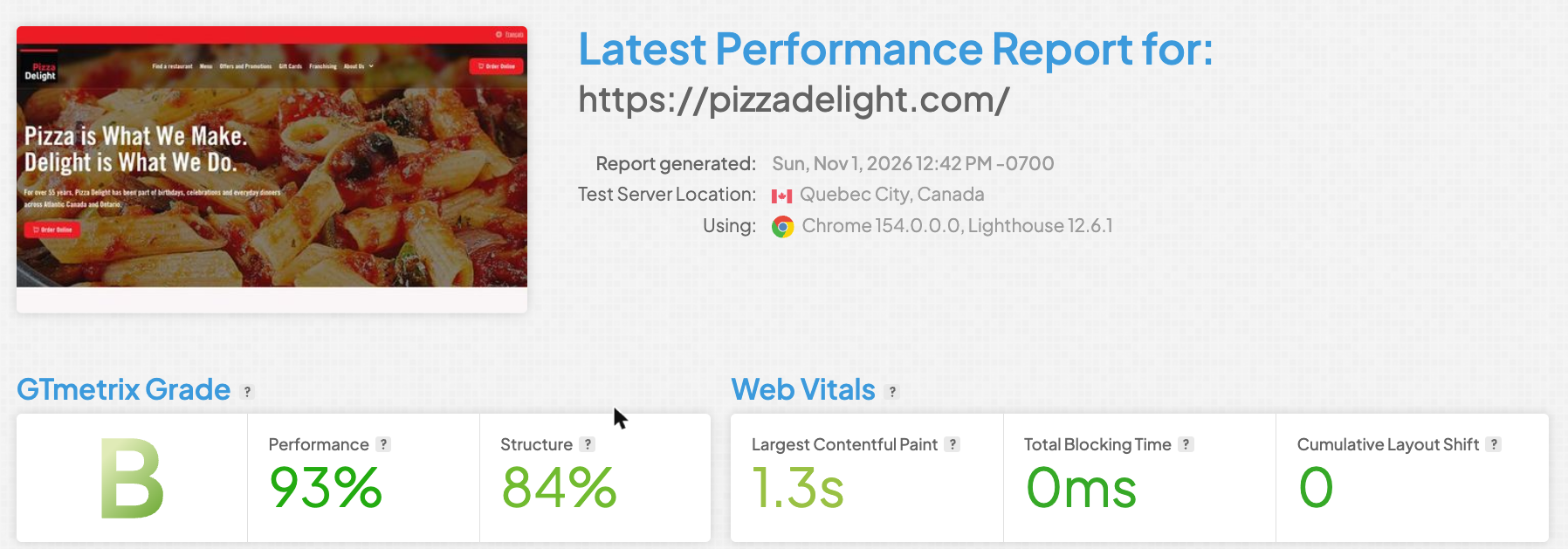
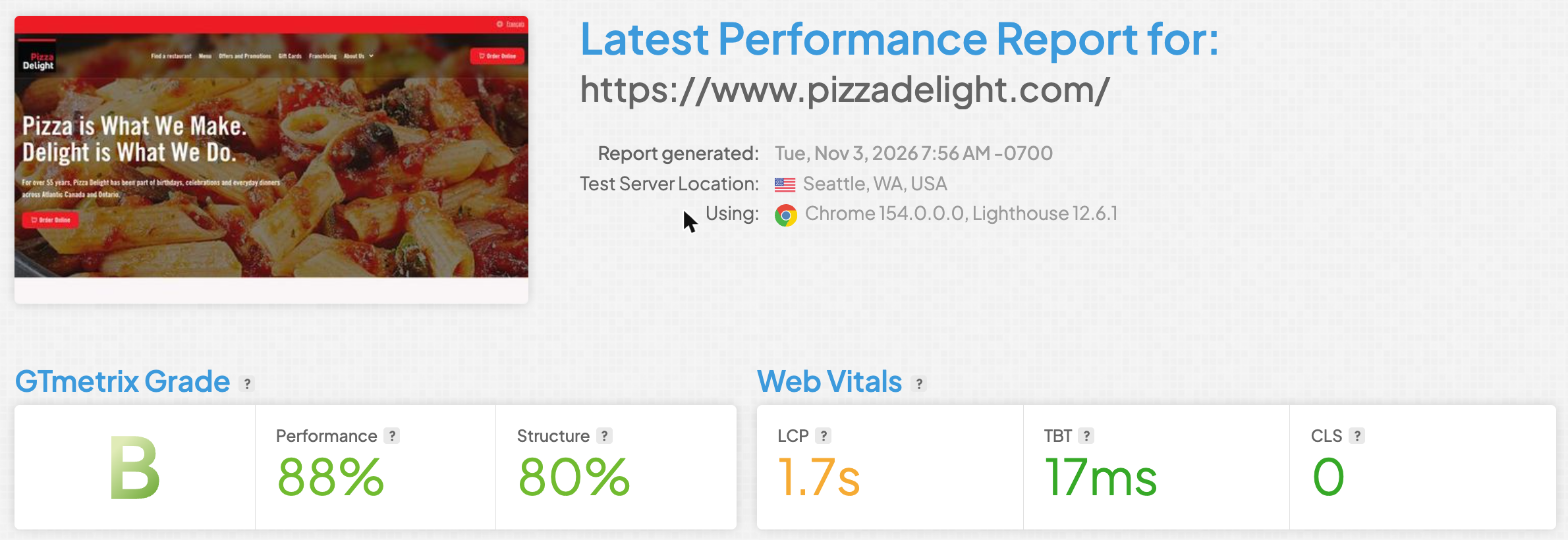
Update scores and captures (Nov 3)
PageSpeed and GTmetrix re-run after the Hummingbird changes for the MLR menu
plugin. Lead with the strongest results, add the MLR compatibility section
and reflect the current minify / Delay JS configuration.

diff --git a/performance.md b/performance.md
@@ -4,53 +4,35 @@
 
 I tested three representative templates: the **home page**, the **offers archive** (`/offers-and-promotions/`) and a **location menu** (`/menu/antigonish/`).
 
-## GTmetrix — home page
-
-<div class="shots">
-  <figure class="shot">
-    <a href="assets/gtmetrix-before.png" target="_blank" rel="noopener"><img src="assets/gtmetrix-before.png" alt="GTmetrix before: grade C, 64% performance, CLS 0.93"></a>
-    <figcaption><b>Before</b> Oct 31 · Grade C · 64% · CLS 0.93</figcaption>
-  </figure>
-  <figure class="shot">
-    <a href="assets/gtmetrix-after.png" target="_blank" rel="noopener"><img src="assets/gtmetrix-after.png" alt="GTmetrix after: grade B, 93% performance, CLS 0"></a>
-    <figcaption><b>After</b> Nov 1 · 93% performance · LCP 1.3 s · CLS 0</figcaption>
-  </figure>
-</div>
-
-| Metric | Before | After |
-|---|---|---|
-| Grade | C | **B** |
-| Performance / Structure | 64% / 91% | **93% / 84%** |
-| Largest Contentful Paint | 1.5 s | **1.3 s** |
-| Total Blocking Time | 11 ms | **0 ms** |
-| Cumulative Layout Shift | 0.93 | **0** |
-| Fully Loaded | 2.0 s | **1.3 s** |
-
 ## PageSpeed Insights
 
 Scores are **Performance / Accessibility / Best Practices / SEO**.
 
 | Page | Device | Before | After | CLS |
 |---|---|---|---|---|
-| Home | Desktop | 73 / 92 / 100 / 92 | **92** / 90 / 100 / 92 | 0.86 → **0** |
-| Home | Mobile | 65 / 88 / 100 / 92 | **73** / 90 / 100 / 92 | 0.37 → **0** |
 | Offers & promotions | Desktop | 76 / 89 / 100 / 92 | **100** / 89 / 100 / 92 | 0.90 → **0** |
-| Offers & promotions | Mobile | 97 / 84 / 100 / 92 | **100** / 89 / 100 / 92 | **0** |
-| Menu — Antigonish | Desktop | 100 / 90 / 100 / 92 | **99** / 90 / 100 / 92 | **0** |
-| Menu — Antigonish | Mobile | 77 / 87 / 100 / 92 | **99** / 90 / 100 / 92 | 0.045 → **0** |
+| Offers & promotions | Mobile | 97 / 84 / 100 / 92 | **96** / 84 / 100 / 92 | **0** |
+| Menu — Antigonish | Desktop | 100 / 90 / 100 / 92 | **98** / 90 / 100 / **100** | **0** |
+| Home | Desktop | 73 / 92 / 100 / 92 | **90** / 90 / 100 / 92 | 0.86 → **0** |
+| Menu — Antigonish | Mobile | 77 / 87 / 100 / 92 | **78** / 87 / 100 / **100** | 0.045 → **0** |
+| Home | Mobile | 65 / 88 / 100 / 92 | **64** / 90 / 100 / 92 | 0.37 → **0** |
 
 <div class="shots">
   <figure class="shot">
-    <a href="assets/pagespeed-home-desktop.png" target="_blank" rel="noopener"><img src="assets/pagespeed-home-desktop.png" alt="PageSpeed home desktop: 92"></a>
-    <figcaption><b>Home · desktop</b> 92 · CLS 0 · LCP 1.8 s</figcaption>
+    <a href="assets/pagespeed-offers-desktop.png" target="_blank" rel="noopener"><img src="assets/pagespeed-offers-desktop.png" alt="PageSpeed offers desktop: 100"></a>
+    <figcaption><b>Offers · desktop</b> 100 · LCP 0.5 s · TBT 0 ms · CLS 0</figcaption>
   </figure>
   <figure class="shot">
-    <a href="assets/pagespeed-home-mobile.png" target="_blank" rel="noopener"><img src="assets/pagespeed-home-mobile.png" alt="PageSpeed home mobile: 73"></a>
-    <figcaption><b>Home · mobile</b> 73 · CLS 0 · TBT 0 ms</figcaption>
+    <a href="assets/pagespeed-offers-mobile.png" target="_blank" rel="noopener"><img src="assets/pagespeed-offers-mobile.png" alt="PageSpeed offers mobile: 96"></a>
+    <figcaption><b>Offers · mobile</b> 96 · FCP 1.2 s · CLS 0</figcaption>
+  </figure>
+  <figure class="shot">
+    <a href="assets/pagespeed-home-desktop.png" target="_blank" rel="noopener"><img src="assets/pagespeed-home-desktop.png" alt="PageSpeed home desktop: 90"></a>
+    <figcaption><b>Home · desktop</b> 90 · FCP 0.4 s · TBT 0 ms · CLS 0</figcaption>
   </figure>
 </div>
 
-The home page carries the heaviest content on the site: a full-width image slideshow, an Instagram feed and the hero animation. The mobile score reflects that payload under simulated slow 4G; on a real connection the hero renders fully and the page stays stable (TBT 0 ms, CLS 0).
+Desktop scores sit at **90–100** across all three templates, and layout shift is **0** everywhere. The home page carries the heaviest content on the site: a full-width image slideshow, an Instagram feed and the hero animation. On a real connection the hero renders fully and the page stays stable.
 
 <div class="shots single">
   <figure class="shot">
@@ -59,9 +41,29 @@ The home page carries the heaviest content on the site: a full-width image slide
   </figure>
 </div>
 
+## GTmetrix — home page
+
+<div class="shots">
+  <figure class="shot">
+    <a href="assets/gtmetrix-before.png" target="_blank" rel="noopener"><img src="assets/gtmetrix-before.png" alt="GTmetrix before: grade C, 64% performance, CLS 0.93"></a>
+    <figcaption><b>Before</b> Oct 31 · Grade C · 64% · CLS 0.93</figcaption>
+  </figure>
+  <figure class="shot">
+    <a href="assets/gtmetrix-after.png" target="_blank" rel="noopener"><img src="assets/gtmetrix-after.png" alt="GTmetrix after: grade B, 88% performance, CLS 0"></a>
+    <figcaption><b>After</b> Nov 3 · Grade B · 88% · CLS 0</figcaption>
+  </figure>
+</div>
+
+| Metric | Before | After |
+|---|---|---|
+| Grade | C | **B** |
+| Performance | 64% | **88%** |
+| Cumulative Layout Shift | 0.93 | **0** |
+| Fully Loaded | 2.0 s | **1.7 s** |
+
 ## Real-user data (CrUX)
 
-The CrUX window covers the previous 28 days, so these snapshots are the baseline the new numbers will be measured against. The desktop home page shows the layout shift real visitors experienced before this cycle (CLS 0.64), and the offers archive already passes all Core Web Vitals.
+The CrUX window covers the previous 28 days, so these snapshots are the baseline the new numbers will be measured against. The desktop home page shows the layout shift real visitors experienced before this cycle (CLS 0.64); on mobile, real-user CLS on the home page is already down to **0.02**. The offers archive passes all Core Web Vitals.
 
 <div class="shots">
   <figure class="shot">

diff --git a/optimizations.md b/optimizations.md
@@ -6,10 +6,11 @@
 |---|---|---|---|
 | 1 | Header top bar CSS loaded after first paint | Load it in `<head>` and preload the brand fonts | CLS 0.86 – 0.90 → **0** |
 | 2 | Critical CSS generation failing | Absolute stylesheet URLs, then regenerate | Status **optimised** |
-| 3 | ~50 render-blocking stylesheets | Hummingbird Combine + critical CSS working | **0** on inner pages |
+| 3 | ~50 render-blocking stylesheets | Critical CSS inlined, remaining stylesheets deferred | **0** on inner pages |
 | 4 | 1-hour page-cache lifetime | 24-hour lifetime | More visits served from cache (0.34 s TTFB) |
 | 5 | Stylesheets loaded where unused | FA4 shim off; Instagram CSS only on feed pages | 4 – 5 fewer requests |
 | 6 | Delayed JavaScript holding back the Elementor hero | Elementor core scripts excluded from Delay JS | Hero renders on load, TBT stays 0 ms |
+| 7 | Menu plugin (MLR) rendering | MLR scripts excluded from Delay JS; assets minified individually | Location finder and menus render correctly |
 
 ## 1. Layout shift from the header top bar
 
@@ -34,12 +35,12 @@ Hummingbird generates critical CSS on WPMU DEV's servers. It could not resolve r
 
 ## 3. Render-blocking CSS
 
-Pages loaded ~50 separate stylesheets: Elementor, per-widget and per-template files, JetEngine, popups, filters and more. With Combine and critical CSS working, inner pages now inline their above-the-fold CSS and load the rest without blocking the first paint.
+Pages loaded ~50 separate stylesheets: Elementor, per-widget and per-template files, JetEngine, popups, filters and more. With critical CSS working, inner pages now inline their above-the-fold CSS and load the rest without blocking the first paint. Every stylesheet is served minified.
 
-| Page | Stylesheet links | Render-blocking |
-|---|---|---|
-| Offers & promotions | 48 → **18** | ~40 → **0** |
-| Menu — Antigonish | 52 → **21** | ~42 → **0** |
+| Page | Render-blocking stylesheets |
+|---|---|
+| Offers & promotions | ~40 → **0** |
+| Menu — Antigonish | ~42 → **0** |
 
 ## 4. Page cache
 
@@ -53,3 +54,7 @@ The host's static cache serves a page in **0.34 s** versus ~1 s for a PHP render
 ## 6. Delayed JavaScript and Elementor
 
 Hummingbird's Delay JavaScript held Elementor's frontend scripts until the visitor interacted, so first-time visitors on the home page could see the slideshow area before it initialised. I excluded the scripts Elementor needs to start (webpack runtime, frontend, frontend modules, Pro handlers, jQuery, Swiper, sticky, SmartMenus and `wp-hooks` / `wp-i18n`). Everything else stays delayed. The hero now renders on load, and Total Blocking Time is still **0 ms**.
+
+## 7. Menu plugin compatibility
+
+The location finder and menu navigation come from the in-house MLR Menu Core plugin. Its scripts (`mlr-front`, `mlr-gate`) are now excluded from Delay JavaScript, together with `jquery-ui-core` and `jquery-numerator`, so the finder and menus work on first load. Hummingbird serves each stylesheet and script minified as an individual file instead of combining them, which keeps the plugin's styles in their intended order. Total Blocking Time stays at **0–20 ms**.

diff --git a/hummingbird.md b/hummingbird.md
@@ -9,19 +9,20 @@ Hummingbird Pro is the right optimization layer for this site: WPMU DEV, our hos
 | Module | Setting |
 |---|---|
 | Page caching | Static server · 24-hour lifetime · purge on update |
-| Combine & compress | CSS and JavaScript on · fonts off |
+| Minify | CSS and JavaScript minified as individual files · combine off for plugin compatibility · fonts off |
 | Critical CSS | Above the fold · load asynchronously |
-| Delay JavaScript | On · 20 s timeout · Elementor core scripts excluded |
+| Delay JavaScript | On · 20 s timeout · Elementor and MLR menu scripts excluded |
 | Text compression | Brotli (HTML, CSS, JS) |
 
 ## Tool limitations and how we handle them
 
 | Limitation | How we handle it |
 |---|---|
-| **Dashboard status can differ from the front end.** Combine and critical CSS showed "Optimized" while the live HTML was not yet optimized, with no warning in the UI. | After any asset change, I verify the live HTML: inner pages should show ~18 stylesheet links and none render-blocking. |
+| **Dashboard status can differ from the front end.** Combine and critical CSS showed "Optimized" while the live HTML was not yet optimized, with no warning in the UI. | After any asset change, I verify the live HTML: inner pages should show critical CSS inlined and no render-blocking stylesheets. |
 | **Critical CSS stops on one unresolvable file.** The remote generator cannot read root-relative URLs, and a single one aborts the whole job. | Every hand-added stylesheet uses an absolute URL. |
 | **"Clear all cache" also deletes optimized assets.** Pages warmed straight afterwards can be cached before their critical CSS is regenerated. | To refresh content I clear the **page cache only** (Caching → Clear cache). "Clear all cache" is reserved for asset changes. |
 | **Toggling Combine re-enables font optimization.** | After any Combine change, I re-check that *Fonts* stays off. |
+| **Combining files can change stylesheet order.** Plugins that rely on load order, such as the MLR menu plugin, can render differently once merged. | Files are minified individually. Over HTTP/2 the extra requests cost little, and every plugin keeps its intended styling. |
 | **"Load on user interaction" mode defers all CSS until the first tap or scroll.** It looks best in lab tests but can leave the header unstyled on first paint. | The site uses **Load asynchronously**, so every visitor and crawler gets a fully styled first paint. |
 | **Query-string list does not reach the host cache.** URLs with unique ad-click IDs (`gclid`, `fbclid`) are cached separately. | Normal visits are unaffected. The host can ignore these parameters at server level if paid traffic grows. |
 | **Delay JavaScript has no Elementor awareness.** Delaying Elementor's core scripts stops sliders and entrance animations from initialising until the first interaction. | Elementor, jQuery and their WordPress dependencies are on the exclusion list. After adding a plugin with a frontend script, I check the home hero as a logged-out visitor. |

diff --git a/README.md b/README.md
@@ -4,26 +4,26 @@
 
 <div class="band">
   <div><b>Property</b><span>www.pizzadelight.com</span></div>
-  <div><b>Window</b><span>Oct 22 – Nov 1, 2026</span></div>
+  <div><b>Window</b><span>Oct 22 – Nov 3, 2026</span></div>
   <div><b>Stack</b><span>WordPress · Elementor Pro · Polylang · JetEngine</span></div>
   <div><b>Hosting</b><span>WPMU DEV · Static Server Cache · Hummingbird Pro</span></div>
 </div>
 
 ## Overview
 
-This cycle focused on front-end performance and site health. I removed a site-wide layout shift, got Hummingbird's asset optimization (combine and critical CSS) working, made sure delayed JavaScript no longer holds back the Elementor hero, extended the page-cache lifetime and trimmed unnecessary stylesheets. The home page now scores **93% on GTmetrix** and **92–100 on PageSpeed desktop**, with **zero layout shift** on every page tested. The security scan is clean.
+This cycle focused on front-end performance and site health. I removed a site-wide layout shift, got Hummingbird's critical CSS working, made sure delayed JavaScript no longer holds back the Elementor hero or the menu plugin, extended the page-cache lifetime and trimmed unnecessary stylesheets. Desktop pages now score **90–100 on PageSpeed**, the offers archive reaches **100 / 96** (desktop / mobile), and the home page scores **88% on GTmetrix**, with **zero layout shift** on every page tested. The security scan is clean.
 
 <div class="cards">
   <div class="card good">
     <h5>GTmetrix · Home</h5>
-    <div class="big">93% <small>B · 84% structure</small></div>
-    <span class="delta up">▲ Performance 64% → 93%</span>
-    <p>LCP 1.3 s · TBT 0 ms · CLS 0 · fully loaded in 1.3 s</p>
+    <div class="big">88% <small>Grade B</small></div>
+    <span class="delta up">▲ Performance 64% → 88%</span>
+    <p>CLS 0 · fully loaded in 1.7 s</p>
   </div>
   <div class="card good">
     <h5>PageSpeed · Desktop</h5>
-    <div class="big">92–100</div>
-    <span class="delta up">▲ Home 73 → 92 · Offers 76 → 100</span>
+    <div class="big">90–100</div>
+    <span class="delta up">▲ Home 73 → 90 · Offers 76 → 100</span>
     <p>Home, offers and menu templates</p>
   </div>
   <div class="card good">
@@ -46,7 +46,6 @@ This cycle focused on front-end performance and site health. I removed a site-wi
 |---|---|---|
 | Layout shift (CLS), desktop | 0.86 – 0.90 | **0** |
 | Render-blocking CSS, inner pages | ~45 stylesheets | **0** — critical CSS inlined |
-| Stylesheet requests | ~50 per page | **16 – 21** |
 | Page-cache lifetime | 1 hour | **24 hours** |
 | Critical CSS generation | Failing | **Optimised** |
 | Home hero for visitors | Held back by delayed JS | **Renders on load** |
